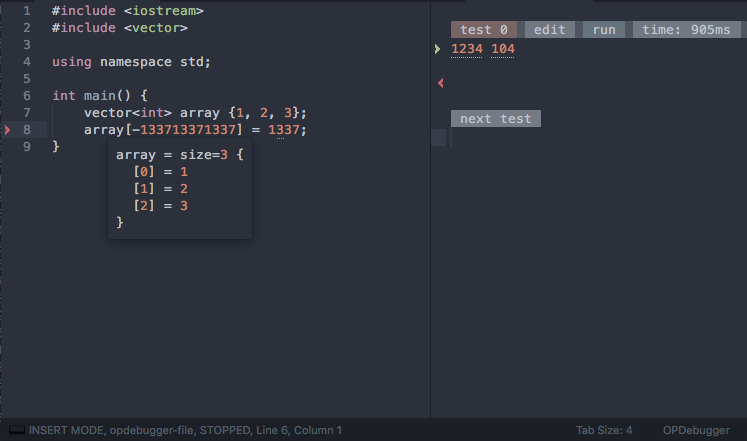
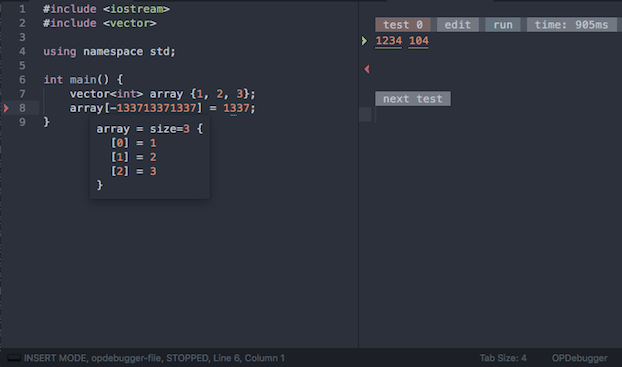
Readme edit #6

diff --git a/README.md b/README.md
@@ -34,17 +34,15 @@ Fast Olympic Coding plugin for Sublime Text 3
 
 
 ### FastClassComplete
- ![FastClassComplete](ScreenShots/FastPregen.gif)
-
-to complete press <kbd>shift+tab</kbd>
+ ![FastClassComplete](ScreenShots/ClassComplete.gif)
 
 ### CppLint
- ![CppLint](ScreenShots/CppLint.png)
+ ![CppLint](ScreenShots/CppLintNew.png)
  
  * to edit lint open Run Settings
  
 ### Debugger
- ![Debugger](ScreenShots/Debugger.png)
+ ![Debugger](ScreenShots/DebuggerNew.png)
 
  * currently debugger only for OSX
  * <kbd>ctrl+shift+b</kbd> disable/enable debugger
